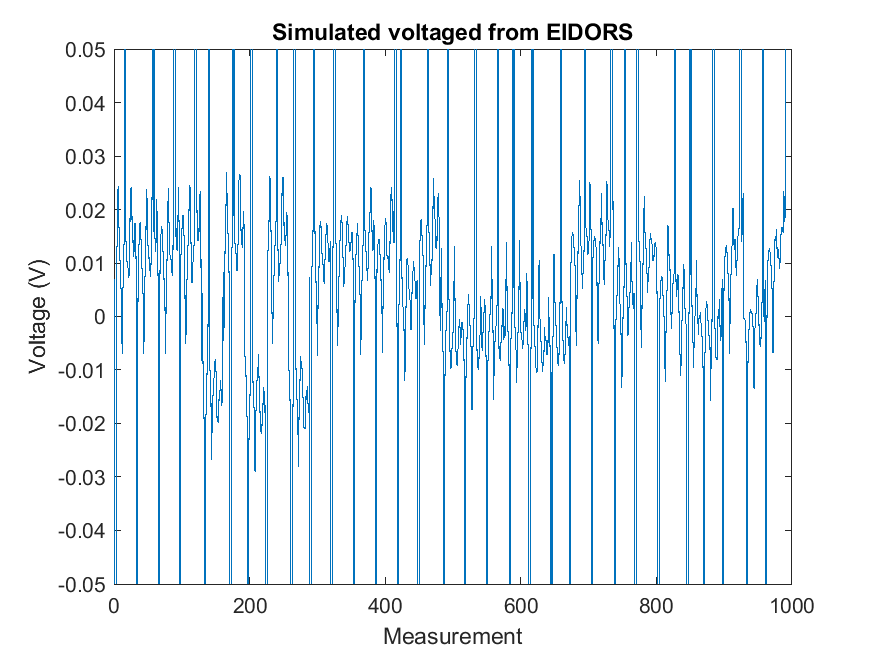
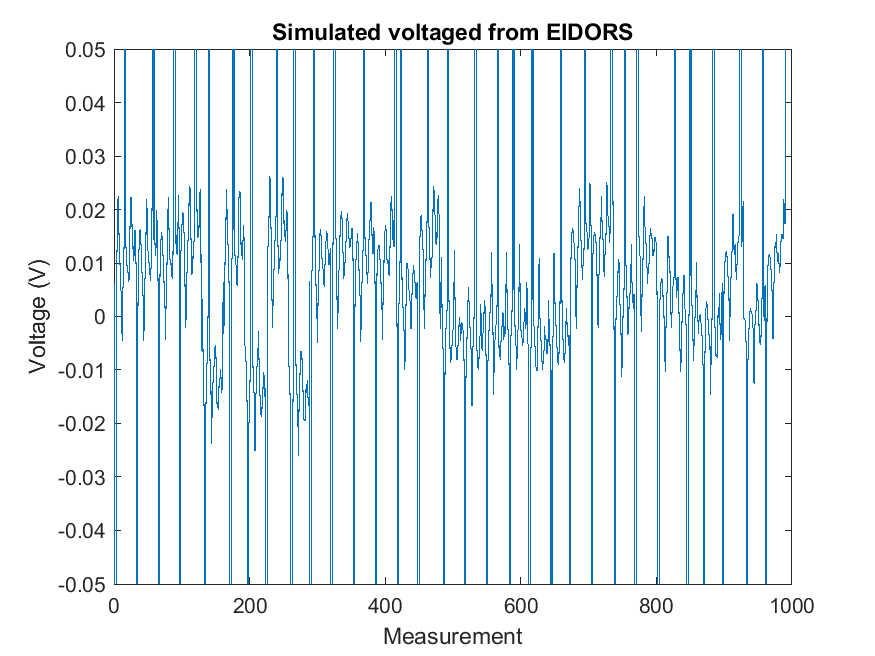
Readme updates and better EIDORS example. Keeping markdown linter happy

diff --git a/examples/EIDORS/eidors_example.m b/examples/EIDORS/eidors_example.m
@@ -1,5 +1,9 @@
 %% EIDORS example
 
+% Make sure you have added Mesher/MATLAB to the path, and ran EIDORS
+% startup.m
+
+
 %% Run mesher
 % Settings for a lower resolution (~100k elem) output mesh for demonstration
 
@@ -40,7 +44,6 @@ runmesher('../neonatescalp/NNscalp.inr','../neonatescalp/NNscalp_elecINRpos.txt'
 % running computationally expensive output
 
 Mesh=loadmesh('output/NNEIDORS');
-% Mesh=loadmesh('../PEITS/output/NNPEITSmesh');
 
 figure
 hold on;
@@ -125,15 +128,18 @@ saveas(gcf,'figures/EIDORS_FEM.png');
 % Convert protocol file to EIDORS stim patterns
 
 Amp=240e-6;
+N_elec=size(Mesh.elec_pos,1); 
 
 prt=dlmread('NN2016_Prt_full.txt');
-[stim]= stim_meas_list( prt,33,Amp);
-% [stim_op, meas_sel] = mk_stim_patterns( 33,1,'{op}','{op}',{},Amp);
+
+[stim]= stim_meas_list( prt,N_elec,Amp);
 
 MDL.stimulation=stim;
 
 %% Check FWD is ok
-valid_fwd_model(MDL)
+if valid_fwd_model(MDL)
+    disp('Forward model is ok!');
+end
 
 %% Add conductivity and solve
 
@@ -157,11 +163,4 @@ title('Simulated voltaged from EIDORS')
 xlabel('Measurement');
 ylabel('Voltage (V)');
 ylim([-0.05 0.05])
-saveas(gcf,'figures/EIDORS_Volts.png')
-
-%%
-figure
-hold on
-plot(V)
-plot(data.meas*0.25)
-ylim([-0.05 0.05])
+% saveas(gcf,'figures/EIDORS_Volts.png')

diff --git a/README.md b/README.md
@@ -1,4 +1,5 @@
 # EIT-Mesher
+
 EIT-MESHER is C++ software, based on the CGAL library, which generates high quality Finite Element Model tetrahedral meshes from binary masks of 3D volume segmentations. Originally developed for biomedical applications in Electrical Impedance Tomography (EIT) to address the need for custom, non-linear refinement in certain areas (e.g. around electrodes), EIT-MESHER can also be used in other fields where custom FEM refinement is required, such as Diffuse Optical Tomography (DOT).
 
 <img src = "./examples/brain/figures/brain_PV_HR.png" alt="Rat Brain Mesh" width = 600>
@@ -7,42 +8,49 @@ EIT-MESHER is C++ software, based on the CGAL library, which generates high qual
 [Unit Cube - 'Hello World' example](./examples/unitcube/readme.md)  
 [Meshing segmented brain data](./examples/brain/readme.md)  
 [Meshing from STL file](./examples/neonatescalp/readme.md)  
-[Mesh refinment examples](./examples/refinements/readme.md)  
+[Mesh refinement examples](./examples/refinements/readme.md)  
 [Mesh deformation](./examples/deformation/readme.md)  
 
 ## Build instructions (tested on Ubuntu 16, 17, 18)
 
 * Install dependencies
-```
+
+```bash
 sudo apt-get install build-essential cmake libcgal-dev libcgal-qt5-dev libglu1-mesa libxi-dev libxmu-dev libglu1-mesa-dev
 ```
 
 * Clone repository
-```
+
+```bash
 git clone https://github.com/EIT-team/Mesher.git
 ```
 
 * Make build & output directories
-```
+
+```bash
 cd Mesher
 mkdir build
 mkdir output
 ```
+
 * Compile
-```
+
+```bash
 cd build
 cmake ..
 make
 ```
 
 * Test
-```
+
+```bash
 cd ../test/
 ./run_tests
 ```
 
 * Run mesher ( from /Mesher root directory)
-```
+
+```bash
 Usage:
 ./bin/mesher -i INPUT_INR -e INPUT_ELECTRODES -p INPUT_PARAMETERS
         -i input image file
@@ -50,8 +58,10 @@ Usage:
         -p parameter file
         -o output mesh name (default = new_mesh)
         -d output directory (default = output/)
-        
+```
+
 Example:
 
+```bash
 ./bin/mesher -i inputs/input.inr -e inputs/Electrodes.txt -p inputs/params.txt
 ```

diff --git a/examples/readme.md b/examples/readme.md
@@ -1,13 +1,12 @@
 # Example meshes
 
-
-The given examples have been tested on Ubuntu, either natively or running through Windows Subsystem for Linux.
-
-The parameter used for each example are set to run quickly/produce small meshes, more realistic parameters, which will generate higher resolution meshes are also provided (e.g. Brain_params_HR.txt)
+The given examples have been tested on Ubuntu, either natively or running through Windows Subsystem for Linux. The parameters used for each example are set to run quickly/produce small meshes. More realistic parameters, which will generate higher resolution meshes are also provided (e.g. `Brain_params_HR.txt`)
 
 See `runexamples.m` for usage of the MATLAB wrappers.
 
 ## Unit Cube
+
+The simplest "Hello world" example.
 
  ```bash
  ../bin/mesher -i unitcube/unit_cube.inr -e unitcube/electrodes.txt  -p unitcube/input_idx.txt -o unitcubeexample -d unitcube/output/
@@ -17,6 +16,8 @@ See `runexamples.m` for usage of the MATLAB wrappers.
 
 ## Neonate scalp
 
+Two layer mesh from STL.
+
 ```bash
 ../bin/mesher -i  neonatescalp/NNscalp.inr -e neonatescalp/NNscalp_elecINRpos.txt  -p neonatescalp/NNscalp_param.txt -o NNexample -d neonatescalp/output/
 ```
@@ -25,6 +26,8 @@ See `runexamples.m` for usage of the MATLAB wrappers.
 
 ## Brain
 
+Mesh from MRI segmentation
+
 ```bash
 ../bin/mesher -i brain/input.inr -e brain/Electrodes.txt -p brain/input_idx.txt -o brainexample -d brain/output/
 ```
@@ -32,6 +35,8 @@ See `runexamples.m` for usage of the MATLAB wrappers.
 ![Brain](brain/figures/brain_PV_HR.png)
 
 ## Refinements
+
+Overview of the different refinement options
 
 ![Refinements](refinements/figures/3_Slice.png)
 

diff --git a/examples/PEITS/readme.md b/examples/PEITS/readme.md
@@ -16,10 +16,10 @@ Here we are using the neonate skull as an example, with electrode and depth refi
 
 PEITS has numerous parameters, but MESHER assumes the simplest use case:
 
-- Electrode nodes are chosen by PEITS and *not* specified directly
-- Conductivities are specified by a separate `conductivities` file, and the *indices* written to the `.dgf` file
+- Electrode nodes are chosen by PEITS and *not* specified directly `electrode.use_node_assignment: false`
+- Conductivities are specified by a separate `conductivities` file, and the *indices* written to the `.dgf` file `fem.assign_conductivities: true`
 
-Most of these settings are specified in the `MESHNAME.parameters`file written by the MESHER. However we will need to create the conductivities file.
+Most of these settings are specified in the `MESHNAME.parameters` file written by the MESHER. However we will need to create the conductivities file.
 
 The neonate mesh contains two layers, the scalp and skull so we need to write one per line:
 
